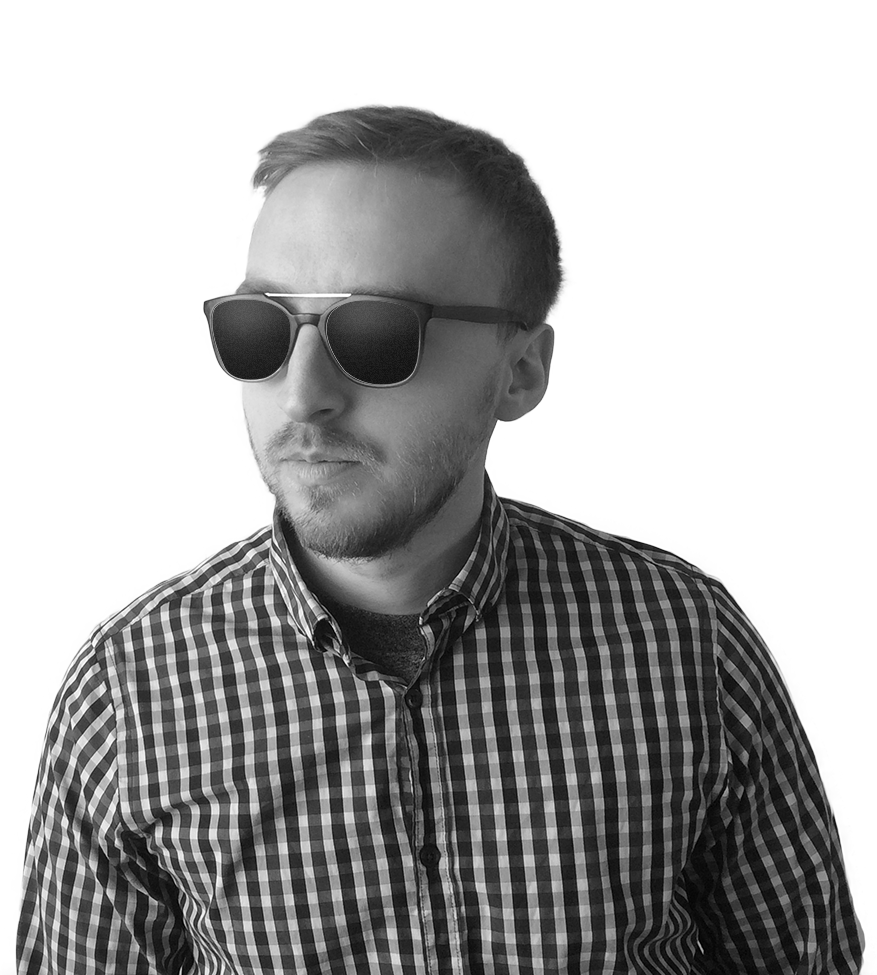
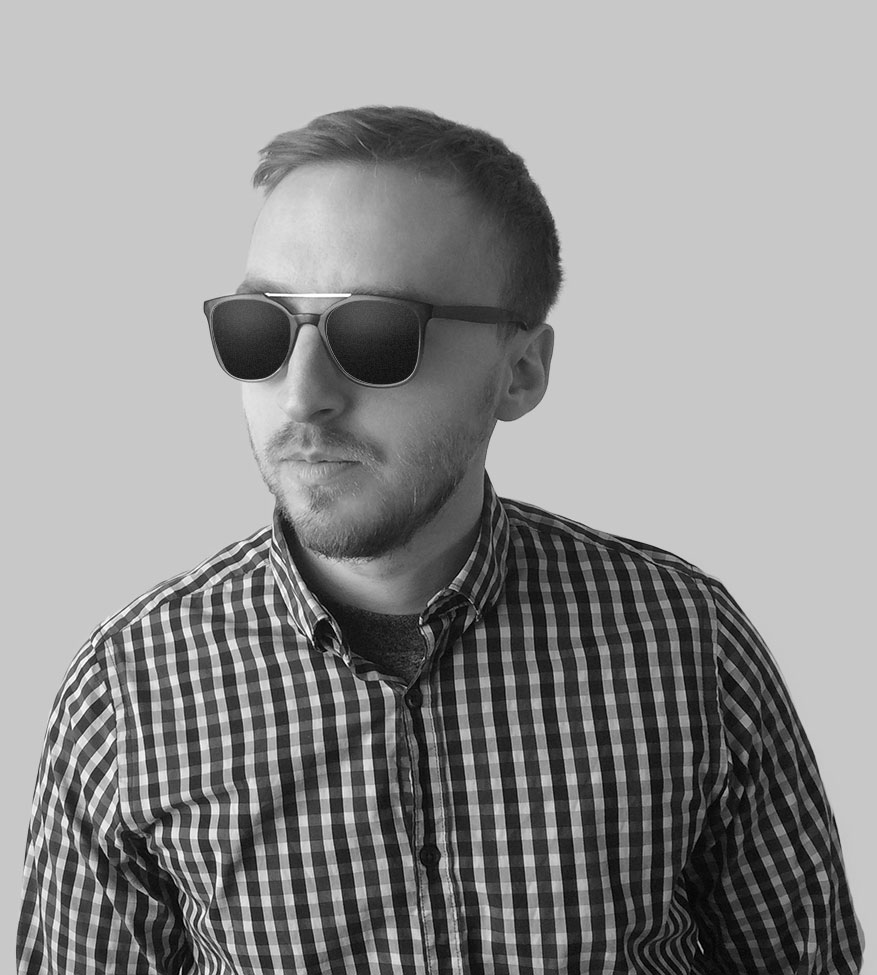
fixed img asset

diff --git a/index.html b/index.html
@@ -82,7 +82,7 @@
 
     <div class="bg">
         <img src="asset/bgback.jpg" class="back" alt="">
-        <img src="asset/bgfront.jpg" class="front" alt="">
+        <img src="asset/bgfront.png" class="front" alt="">
     </div>
 
 </body>
